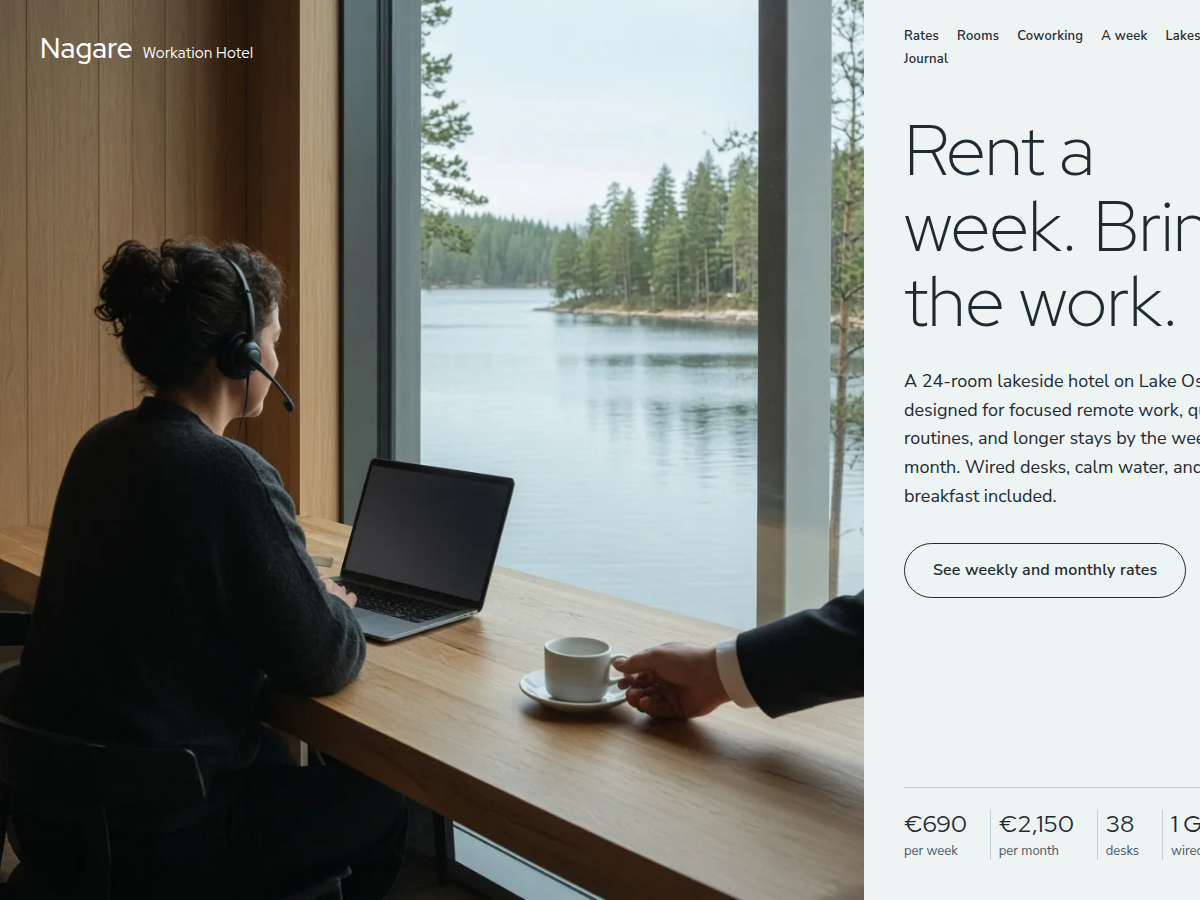
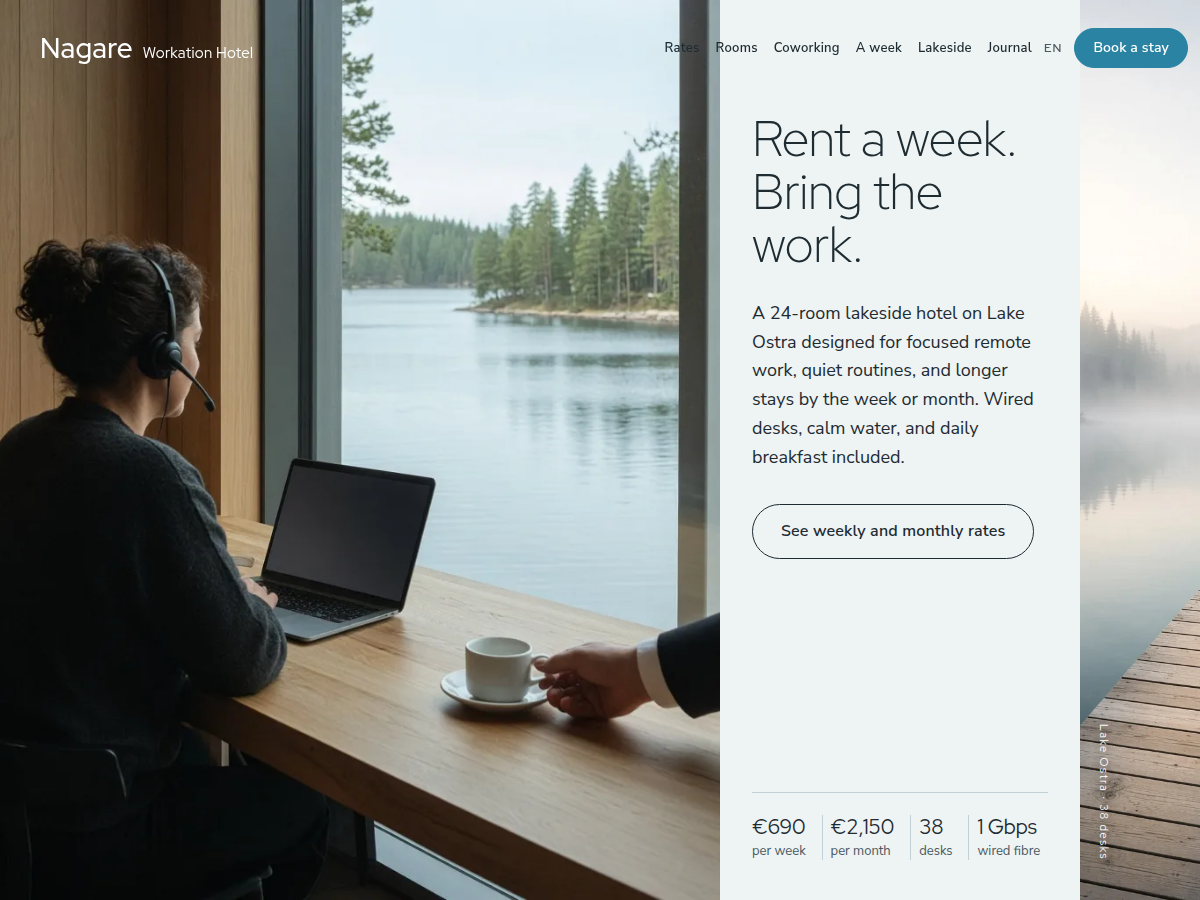
nagare-workation: stage-2 home fixes (single-line nav, sticky header, H1 size, caption contrast, new P10/P14 portraits, four-frame copy, screenshot)

diff --git a/themes/nagare-workation/style.css b/themes/nagare-workation/style.css
@@ -88,10 +88,10 @@ body.home .nw-head-part { position: absolute; top: 0; left: 0; right: 0; }
 .nw-wordmark a { display: inline-flex; align-items: baseline; gap: 10px; color: var(--wp--preset--color--ink); text-decoration: none; }
 .nw-wordmark__sub { font-size: .9375rem; font-weight: 400; letter-spacing: .02em; }
 body.home .nw-wordmark a { color: #fff; }
-.nw-head__m { display: flex; align-items: center; justify-content: space-between; gap: 12px; padding: 0 20px 0 40px; }
+.nw-head__m { display: flex; align-items: center; justify-content: space-between; gap: 12px; padding: 0 12px 0 32px; }
 .nw-nav { flex: 1 1 auto; min-width: 0; }
-.nw-nav .wp-block-navigation__container { gap: 6px 18px; flex-wrap: wrap; }
-.nw-nav .wp-block-navigation-item__content { font: 600 .8125rem/1.3 var(--wp--preset--font-family--body); letter-spacing: .02em; color: var(--wp--preset--color--ink); text-decoration: none; }
+.nw-nav .wp-block-navigation__container { gap: 6px 16px; flex-wrap: nowrap; }
+.nw-nav .wp-block-navigation-item__content { font: 600 .8125rem/1.3 var(--wp--preset--font-family--body); letter-spacing: .02em; white-space: nowrap; color: var(--wp--preset--color--ink); text-decoration: none; }
 .nw-nav .wp-block-navigation-item__content:hover { color: var(--wp--preset--color--accent-deep); }
 .nw-lang { margin: 0; flex: 0 0 auto; font: 600 .75rem/1 var(--wp--preset--font-family--display); letter-spacing: .08em; }
 .nw-lang a { color: var(--wp--preset--color--muted); text-decoration: none; }
@@ -115,7 +115,7 @@ body:not(.home) .nw-nav { flex: 0 1 auto; }
 	.nw-wordmark { font-size: 1.5rem; }
 	.nw-wordmark__sub { display: none; }
 	.nw-head__r { display: none; }
-	.nw-head, body:not(.home) .nw-head { grid-template-columns: 1fr auto; padding-right: 12px; }
+	.nw-head, body:not(.home) .nw-head { grid-template-columns: 1fr auto; padding-right: 20px; }
 	body.home .nw-head .nw-nav .wp-block-navigation__responsive-container-open { color: #fff; }
 }
 
@@ -125,9 +125,9 @@ body:not(.home) .nw-nav { flex: 0 1 auto; }
 .nw-slide { position: absolute; inset: 0; margin: 0; }
 .nw-slide img { display: block; width: 100%; height: 100%; object-fit: cover; object-position: 55% 50%; }
 .nw-slide--2, .nw-slide--3 { clip-path: inset(100% 0 0 0); }
-.nw-hero__text { box-sizing: border-box; display: flex; flex-direction: column; padding: 112px 40px 40px; min-width: 0; }
+.nw-hero__text { box-sizing: border-box; display: flex; flex-direction: column; padding: 112px 32px 40px; min-width: 0; }
 .nw-hero__main { margin-block: auto; }
-.nw-hero__h { margin: 0 0 28px; font-size: clamp(2.6rem, 5vw, 4.5rem); font-weight: 300; line-height: 1.05; letter-spacing: -.01em; }
+.nw-hero__h { margin: 0 0 28px; font-size: clamp(2.6rem, 4.2vw, 4.5rem); font-weight: 300; line-height: 1.05; letter-spacing: -.01em; }
 .nw-hero__lede { margin: 0 0 32px; font-size: 1.125rem; line-height: 1.6; max-width: 36ch; }
 .nw-stats { display: flex; justify-content: space-between; border-top: 1px solid var(--wp--preset--color--line); padding-top: 22px; }
 .nw-stat { flex: 1 1 auto; padding: 0 8px; border-left: 1px solid var(--wp--preset--color--line); }
@@ -138,7 +138,7 @@ body:not(.home) .nw-nav { flex: 0 1 auto; }
 .nw-hero__sliver { position: relative; min-width: 0; }
 .nw-hero__sliver > figure { height: 100%; }
 .nw-hero__sliver > figure img { width: 100%; height: 100%; object-fit: cover; }
-.nw-sliver__cap { position: absolute; left: 16px; bottom: 40px; z-index: 2; margin: 0; writing-mode: vertical-rl; font: 400 .6875rem/1.4 var(--wp--preset--font-family--display); letter-spacing: .14em; color: #fff; }
+.nw-sliver__cap { position: absolute; left: 16px; bottom: 40px; z-index: 2; margin: 0; writing-mode: vertical-rl; font: 400 .6875rem/1.4 var(--wp--preset--font-family--display); letter-spacing: .14em; color: #fff; text-shadow: 0 0 8px rgba(30, 43, 49, .55); }
 @media (prefers-reduced-motion: no-preference) {
 	html.sp-js:not(.sp-no-motion) .nw-slide { animation: nw-wipe 22.2s linear infinite both; }
 	html.sp-js:not(.sp-no-motion) .nw-slide--1 { animation-delay: -2.4s; }
@@ -352,3 +352,15 @@ body.home .nw-pagehead { padding-top: 160px; }
 :is(:lang(zh), :lang(ja)) :is(h1, h2, h3, h4) { line-height: 1.4; }
 :is(:lang(zh), :lang(ja)) :is(em, i, cite) { font-style: normal; }
 :is(:lang(fr), :lang(de)) :is(p, li, h1, h2, h3, h4) { hyphens: auto; overflow-wrap: break-word; }
+
+/* ==== Sticky header: solid ground colour once the hero is scrolled past (scroll-driven, no JS) ==== */
+body:not(.home) .nw-head-part { position: sticky; top: 0; }
+@supports (animation-timeline: scroll()) {
+	body.home .nw-head-part { position: sticky; top: 0; height: 0; overflow: visible; }
+	@keyframes nw-head-bg { from { background-color: transparent; } to { background-color: var(--wp--preset--color--ground); } }
+	@keyframes nw-head-ink { from { color: #fff; } to { color: var(--wp--preset--color--ink); } }
+	body.home .nw-head { animation: nw-head-bg linear both; animation-timeline: scroll(root); animation-range: 85vh 100vh; }
+	body.home .nw-wordmark a, body.home .nw-head .nw-nav .wp-block-navigation__responsive-container-open { animation: nw-head-ink linear both; animation-timeline: scroll(root); animation-range: 85vh 100vh; }
+	@media (max-width: 781px) { body.home .nw-head, body.home .nw-wordmark a, body.home .nw-head .nw-nav .wp-block-navigation__responsive-container-open { animation-range: 110vh 125vh; } }
+}
+@media (max-width: 781px) { body.home .nw-head .nw-nav .wp-block-navigation__responsive-container-open svg { filter: drop-shadow(0 0 4px rgba(30, 43, 49, .6)); } }

diff --git a/themes/nagare-workation/brand.md b/themes/nagare-workation/brand.md
@@ -26,13 +26,13 @@ Life at Nagare balances sustained professional focus with the calm presence of n
 - **Ilse Varga**, Founder and General Manager. Ilse founded Nagare in 2018 by restoring the former 1960s boat-builders' lodge on Lake Ostra. She oversees hotel operations, guest stays, and the overall vision of the retreat.
 - **Daniel Osei**, Front Desk and Stays. Daniel welcomes arriving guests at the front desk and coordinates check-ins on Sundays and Mondays. He looks after daily hospitality needs and keeps the lodge running calmly.
 - **Mei-Lin Hoang**, Coworking Floor Host. Mei-Lin hosts the coworking floor Monday through Friday from 08:30 to 18:00. She manages desk setups, maintains office supplies, and assists guests with their work routines.
-- **Tomás Ferreira**, Kitchen Lead. Tomás prepares daily morning breakfasts and the communal weekday dinners at the long table from Monday to Friday. His cooking brings guests together after long days of focused work.
+- **Tomás Ferreira**, Kitchen Lead. Tomás prepares daily morning breakfasts and the communal weekday dinners at the long table from Monday to Thursday. His cooking brings guests together after long days of focused work.
 - **Ana Petrova**, Connectivity and IT. Ana maintains the 1 Gbps wired fibre network, private acoustic booths, and external displays. She ensures reliable, high-speed connectivity across all thirty-eight desks.
 - **Jonas Lindqvist**, Lake and Grounds. Jonas manages the lakefront property, wooden boats, and shoreline sauna. He prepares the dock each morning for early swims and maintains the lakeside walking paths.
 - **Priya Nair**, Bookings. Priya manages all reservation inquiries submitted through the website or by email. She coordinates schedules and confirms every booking within one working day.
 
 ## A day at Nagare (the daily routine)
-The daily routine: an early swim off the dock or a shower, breakfast in the kitchen lodge prepared by Tomás, Mei-Lin opening the coworking floor at 08:30, deep work and video calls through the middle of the day with wired gigabit fibre at every desk and sound-insulated booths down the hall, then a pause: the sauna, a walk on the shoreline loop, or a weekday dinner at the long table Monday to Friday.
+The daily routine: an early swim off the dock or a shower, breakfast in the kitchen lodge prepared by Tomás, Mei-Lin opening the coworking floor at 08:30, deep work and video calls through the middle of the day with wired gigabit fibre at every desk and sound-insulated booths down the hall, then a pause: the sauna, a walk on the shoreline loop, or a weekday dinner at the long table Monday to Thursday.
 
 ## Rates (EUR, per room incl. VAT, weekly cleaning and breakfast included; identical on every page)
 | Item | Stay | Price |
@@ -59,4 +59,4 @@ The daily routine: an early swim off the dock or a shower, breakfast in the kitc
 Home, Rates, Rooms, Coworking floor, A week at Nagare, Lakeside, About, Guest stories, FAQ, Book a stay, Contact, Newsletter (the lake letter), Journal.
 
 ## Home blocks
-Split hero (three panes) / a week at the lake in five frames (horizontal photo strip) / weekly and monthly rates (label-cell price board) / seam portrait band / the coworking floor (icon tiles, right-edge photo strip) / one day, a routine / who stayed / the one way to book / journal / footer with the lake letter.
+Split hero (three panes) / a week at the lake in four frames (horizontal photo strip) / weekly and monthly rates (label-cell price board) / seam portrait band / the coworking floor (icon tiles, right-edge photo strip) / one day, a routine / who stayed / the one way to book / journal / footer with the lake letter.

diff --git a/themes/nagare-workation/brand/design-spec.md b/themes/nagare-workation/brand/design-spec.md
@@ -96,7 +96,7 @@ The lakeside hotel's desk by the window: a guest on a video call, laptop open, t
 |---|---|---|---|---|
 | 1 | Header (split nav) | single top menu | transparent over hero; logo left (white over photo); Rates · Rooms · Coworking · A week · Lakeside · Journal over the text pane; EN/… + "Book a stay" pill (#2A83A2, white text) right. Sticky after hero with #EEF3F4 ground | — |
 | 2 | Hero T1 | KV | see §2 table; P01/P02/P03 + P04 | H1 + 30-word lede + pill + stats |
-| 3 | "A week at the lake, in five frames" — horizontal photo strip | the archetype's horizontal strip: Monday to Friday | label pair heading at x 100; below, a horizontally scrollable strip (overflow-x: auto inside a full-width wrapper, scroll-snap, `scrollbar-width: thin`) of **4 photos 420×470 (0.9:1), 20 px gaps, radius 0**: P05 Monday key and room, P06 lunchtime swim from the dock, P07 call booth, P08 Thursday long-table dinner; caption under each "Mon / Arrive at 15:00 …" 14 px. Strip items get **no reveal**; the heading gets `sp-reveal--wipe`. Left: a narrative paragraph block (max 560) above the strip | 2 narrative paragraphs (≥40 words each) + 4 captions |
+| 3 | "A week at the lake, in four frames" — horizontal photo strip | the archetype's horizontal strip: Monday to Thursday | label pair heading at x 100; below, a horizontally scrollable strip (overflow-x: auto inside a full-width wrapper, scroll-snap, `scrollbar-width: thin`) of **4 photos 420×470 (0.9:1), 20 px gaps, radius 0**: P05 Monday key and room, P06 lunchtime swim from the dock, P07 call booth, P08 Thursday long-table dinner; caption under each "Mon / Arrive at 15:00 …" 14 px. Strip items get **no reveal**; the heading gets `sp-reveal--wipe`. Left: a narrative paragraph block (max 560) above the strip | 2 narrative paragraphs (≥40 words each) + 4 captions |
 | 4 | "Weekly and monthly rates" T2 price board | pricing first | board §1 T2 on #EEF3F4; numeral €690 / €2,150 (accent **#2A83A2** on the two numerals only); outline pill to /rates/ | intro 1 line; cell copy |
 | 5 | Seam portrait band T3 | the story turn | P09 band + P10 portrait, parallax 10 %; text block below | 2 paragraphs (≥25 words each) |
 | 6 | "The coworking floor" | what a desk includes | left text column x 100–620 (label pair, paragraph, 3×2 icon tiles: Fixed desk & 27" monitor / 1 Gbps wired fibre / 2 call booths / Meeting room for 8 / Printer & supplies / Hosted Mon–Fri 08:30–18:00); right: **3 abutting photos P11, P12, P13 284×258 flush to the right viewport edge** at y aligned with the heading. Tiles: `sp-stagger` + `sp-reveal--up`; photos `sp-reveal--zoom` | 1 paragraph + 6 tile texts |

diff --git a/themes/nagare-workation/README.md b/themes/nagare-workation/README.md
@@ -7,3 +7,5 @@ A block theme for lakeside hotels that rent rooms by the week and the month to p
 - Scroll effects: sp-reveal (wipe, up + stagger, zoom, left/right) and sp-parallax on the lake sliver and the seam band.
 - Forms: `shippress_form_slot` newsletter in the footer and on the Newsletter page; works without plugins (mailto fallback with a visible notice).
 - Design notes: `brand.md`, `brand/design-spec.md`, `brand/reference.md`.
+- Header: the one top menu stays on a single line over the text pane; on the home page it turns solid (sticky) once the hero has been scrolled past, using CSS scroll-driven animation (no JS; browsers without support keep the transparent overlay header).
+- Photography: AI-generated documentary photographs (guests of different ages and backgrounds); the "A week" strip is four frames, Monday to Thursday.
